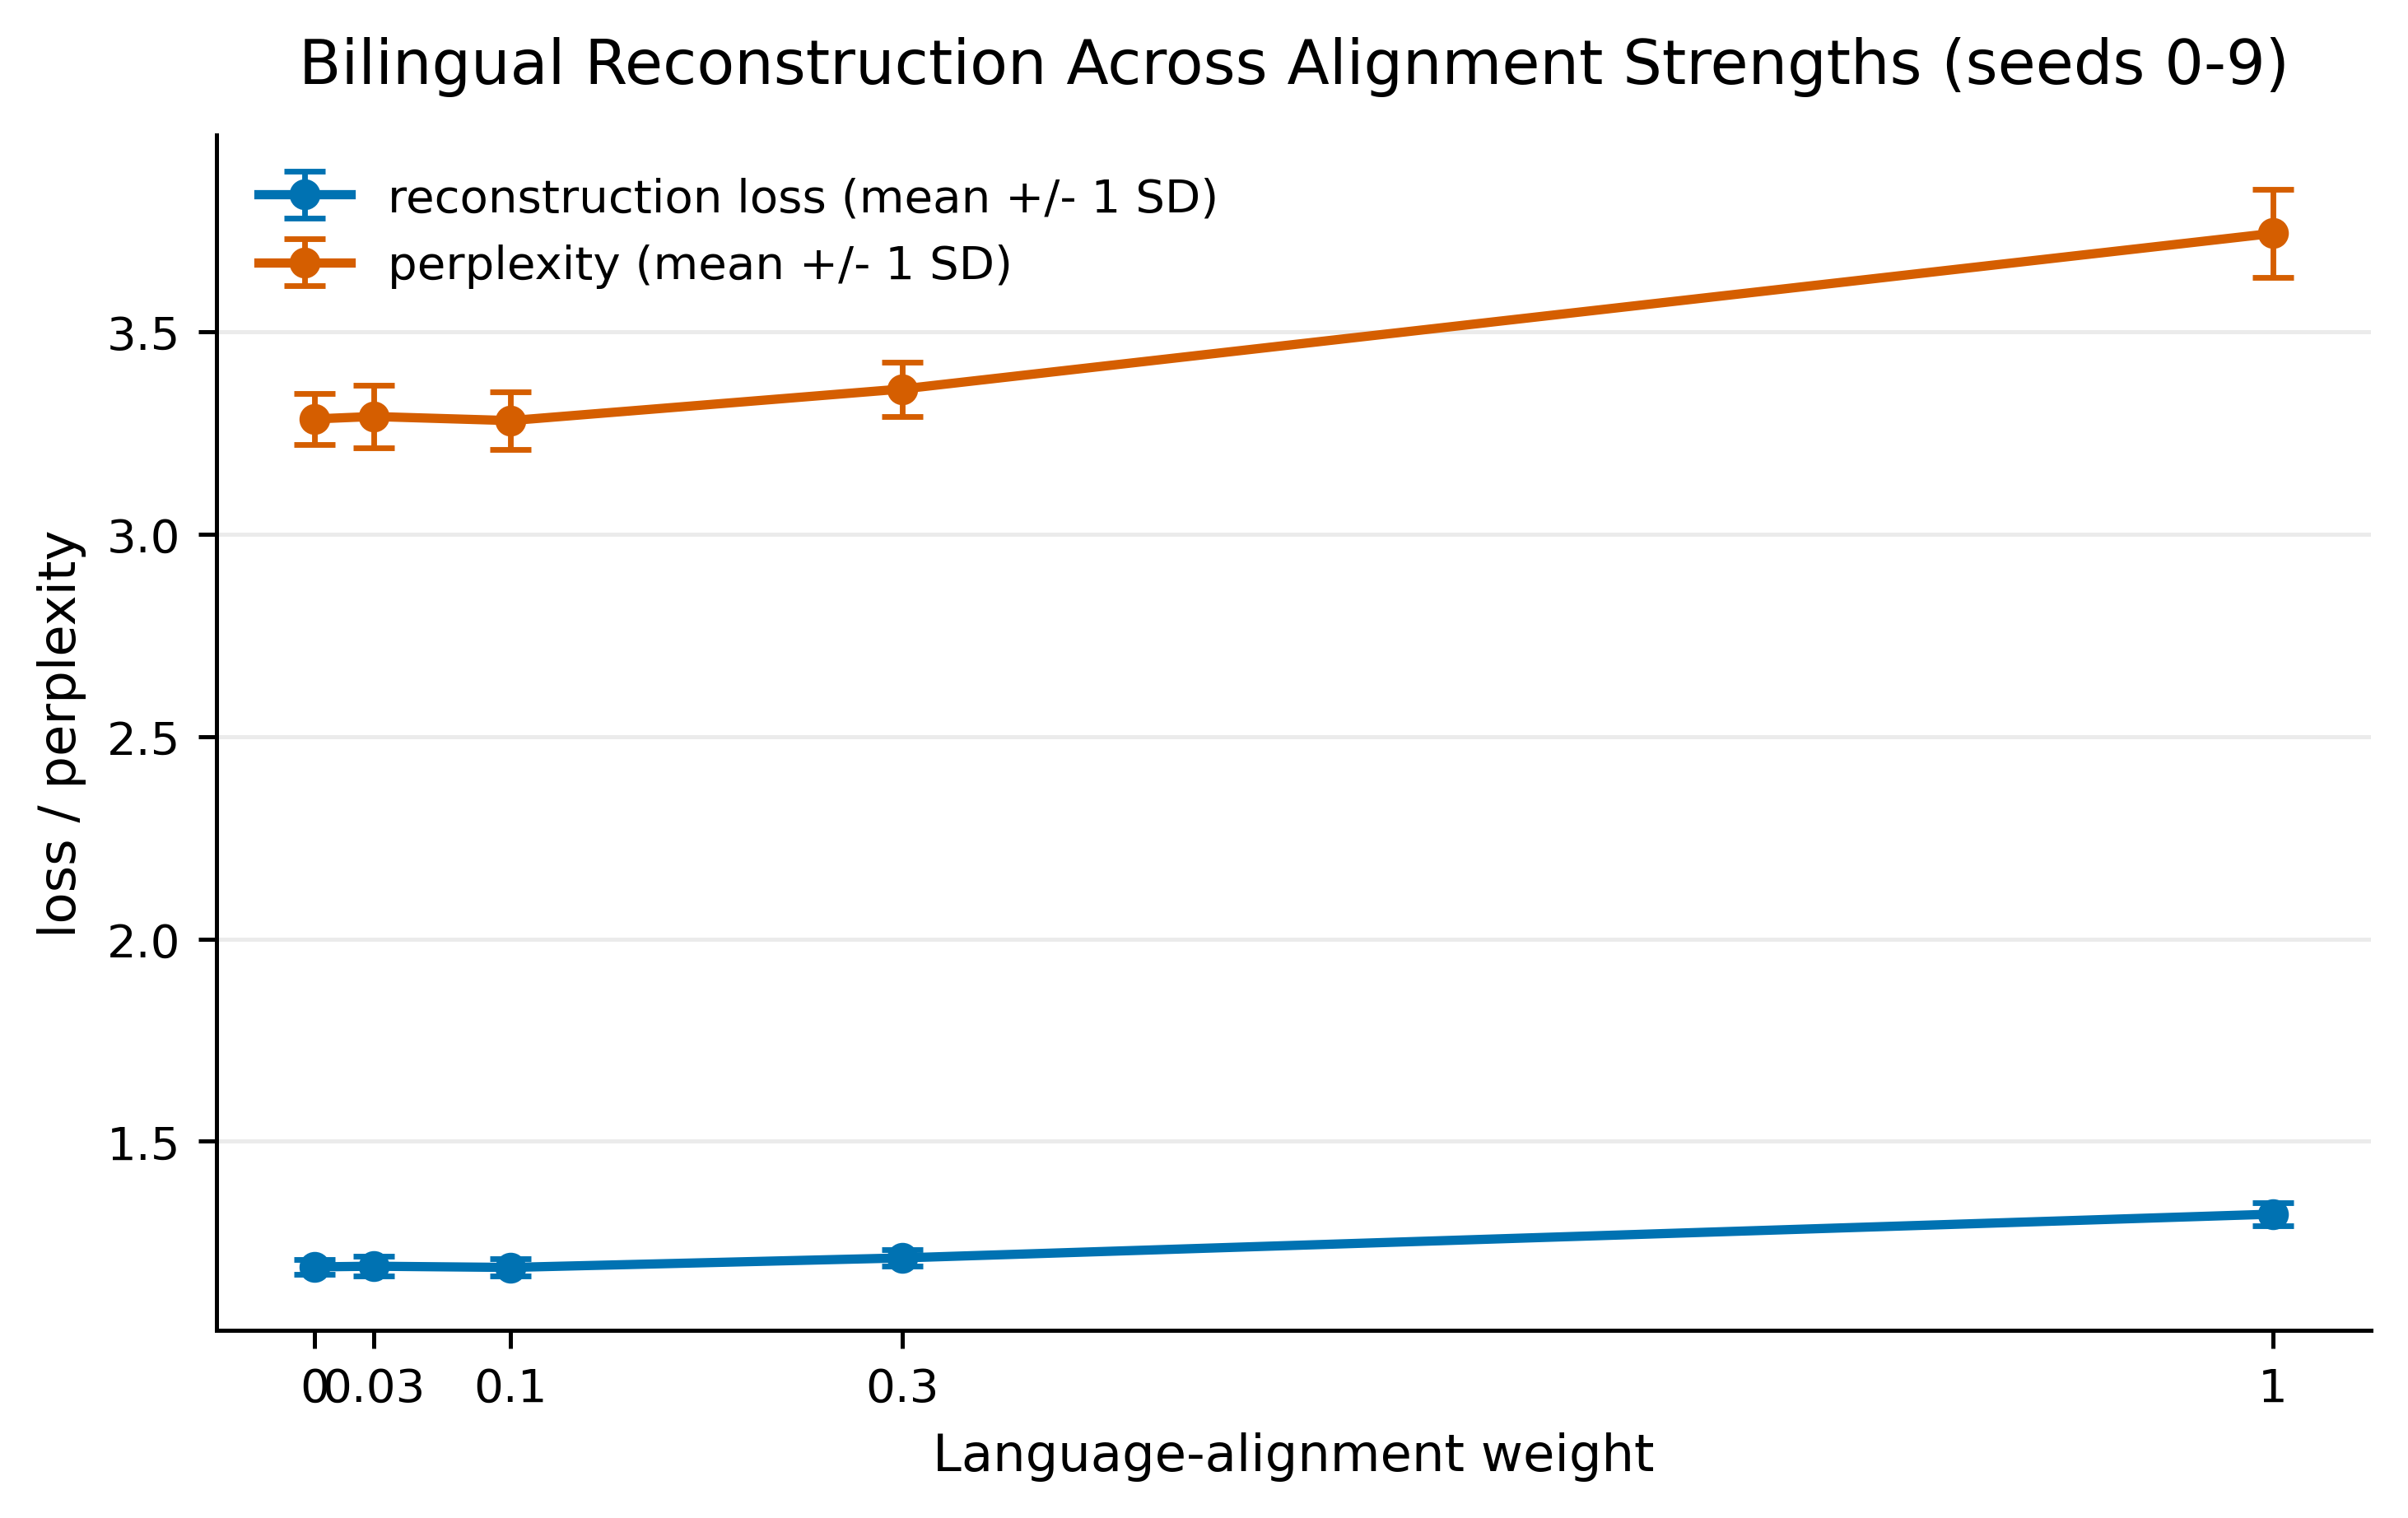
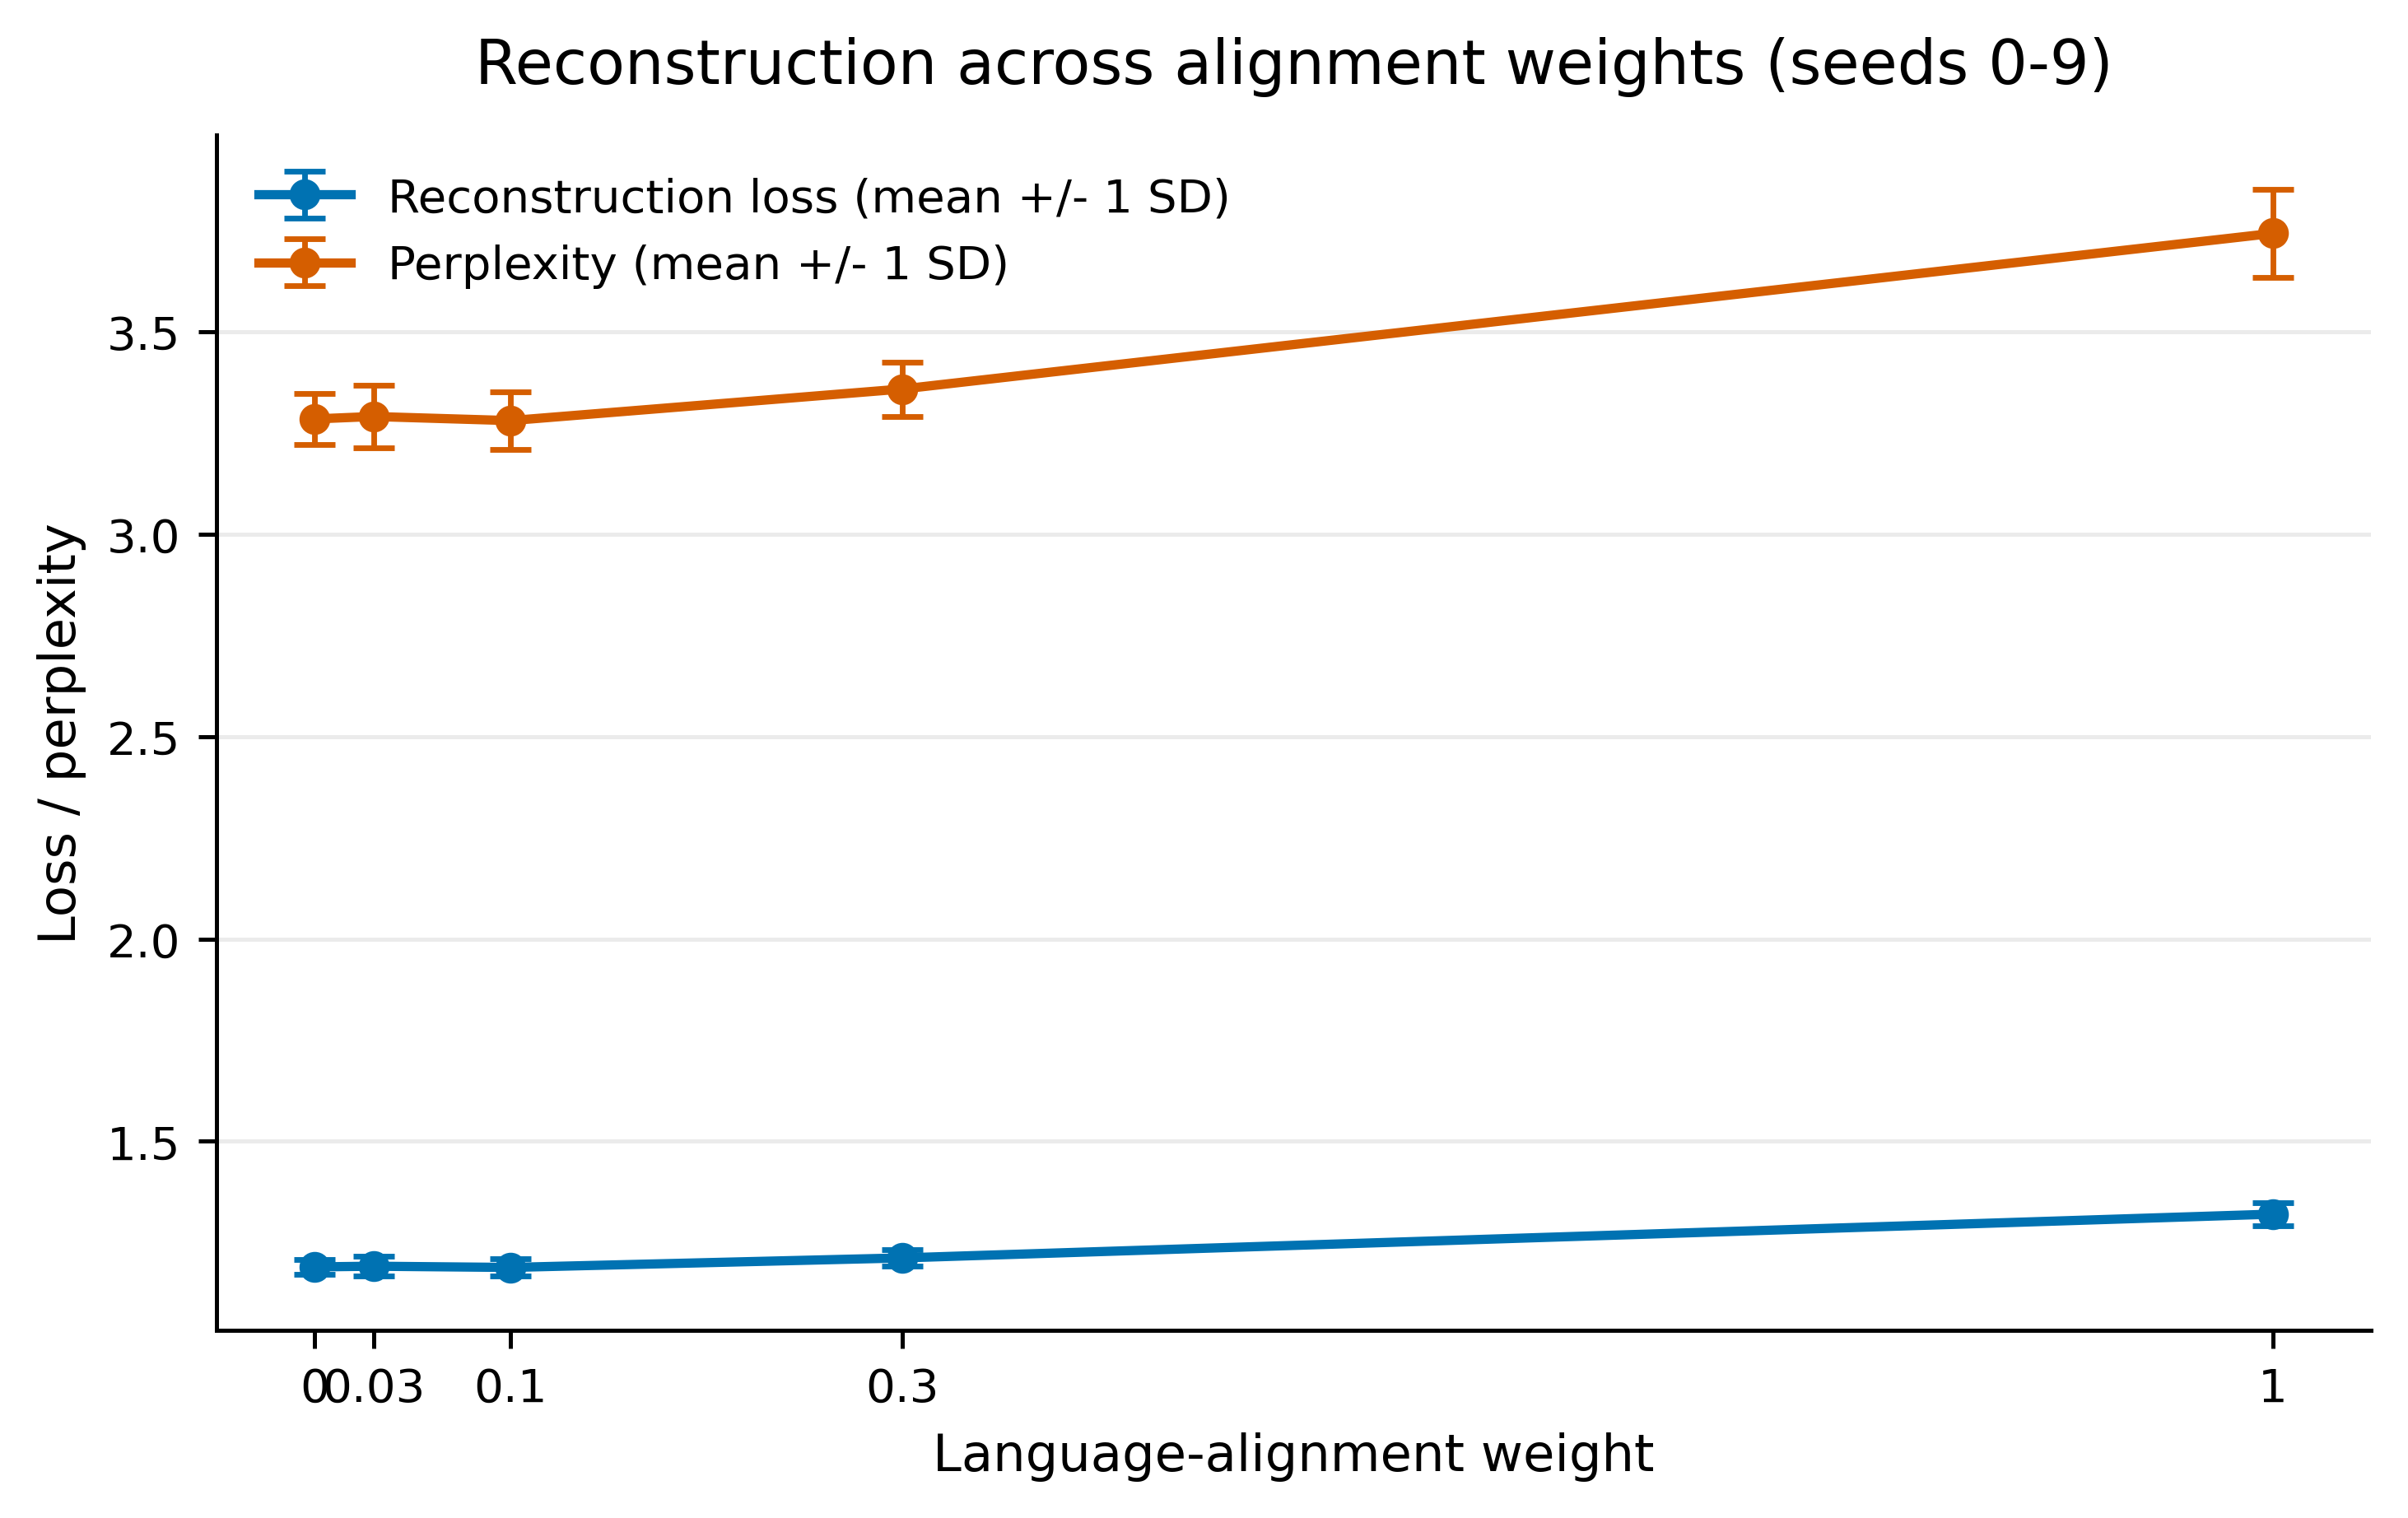
Report bilingual metric standard deviations

Changed region(s): [[0.1244, 0.0309, 0.9644, 0.0618], [0.1556, 0.1236, 0.5289, 0.1855], [0.0, 0.34, 0.0311, 0.6182]]

diff --git a/paper/main.tex b/paper/main.tex
@@ -38,7 +38,7 @@ The dataset contains 526 numbered propositions. In the monolingual study, each r
 
 The monolingual result motivates the architecture. A single 32-dimensional VAE latent reconstructs text but produces weak hierarchy geometry: nearest-neighbor family agreement is 3.0 percent. Splitting the latent into text and structure subspaces produces a compact structure representation in which local geometry tracks the \emph{Tractatus} hierarchy. The retained monolingual seed sweep uses the balanced \texttt{reg005} configuration across seeds 0--9.
 
-The bilingual result extends this finding. Across ten seeds and five alignment strengths, cross-language proposition retrieval is already strong with no explicit alignment loss: top-1 retrieval is $0.9348 \pm 0.0115$ and mean reciprocal rank is $0.9650 \pm 0.0066$. Light alignment at $\lambda_{\mathrm{language\ alignment}} = 0.03$ gives the strongest mean retrieval and hierarchy scores: top-1 retrieval is $0.9365 \pm 0.0103$, MRR is $0.9662 \pm 0.0058$, parent accuracy is 0.8608, depth accuracy is 0.9643, and next-proposition accuracy is 0.6189. High alignment at 1.00 degrades retrieval and hierarchy. The result does not show that the model understands Wittgenstein or learns general language-invariant logic. It shows a narrower result: under aligned German and English proposition texts, and under shared hierarchy supervision, the learned structure latent tracks formal proposition position across languages.
+The bilingual result extends this finding. Across ten seeds and five alignment strengths, cross-language proposition retrieval is already strong with no explicit alignment loss: top-1 retrieval is $0.9348 \pm 0.0115$ and mean reciprocal rank is $0.9650 \pm 0.0066$. Light alignment at $\lambda_{\mathrm{language\ alignment}} = 0.03$ gives the strongest mean retrieval and hierarchy scores: top-1 retrieval is $0.9365 \pm 0.0103$, MRR is $0.9662 \pm 0.0058$, parent accuracy is $0.8608 \pm 0.0094$, depth accuracy is $0.9643 \pm 0.0136$, and next-proposition accuracy is $0.6189 \pm 0.0219$. High alignment at 1.00 degrades retrieval and hierarchy. The result does not show that the model understands Wittgenstein or learns general language-invariant logic. It shows a narrower result: under aligned German and English proposition texts, and under shared hierarchy supervision, the learned structure latent tracks formal proposition position across languages.
 \end{abstract}
 
 \section{Introduction}
@@ -263,57 +263,102 @@ The main bilingual retrieval metrics are cross-language top-1 id accuracy, cross
 
 The bilingual alignment sweep was run across ten seeds for each alignment strength. Metric sweep figures therefore report means with error bars. The error bars are necessary because the paper is now making claims across seeds rather than from a single trained model.
 
-The core seed-sweep results are shown in Table~\ref{tab:bilingual-core}. Directional retrieval is balanced across languages (Table~\ref{tab:directional-retrieval}). By-language parent prediction is also balanced (Table~\ref{tab:by-language-parent}). These checks matter because they rule out a trivial one-sided interpretation. The bilingual alignment is not only German mapping into English, nor only English mapping into German. Both retrieval directions and both language-specific structure predictions show the same broad pattern.
+The core seed-sweep results are shown in Table~\ref{tab:bilingual-core}. Directional retrieval is balanced across languages (Table~\ref{tab:directional-retrieval}). By-language structure prediction is also balanced (Table~\ref{tab:by-language-parent}). These checks matter because they rule out a trivial one-sided interpretation. The bilingual alignment is not only German mapping into English, nor only English mapping into German. Both retrieval directions and both language-specific structure predictions show the same broad pattern.
 
 \begin{table}[htbp]
 \centering
-\caption{Core bilingual seed-sweep results across ten seeds for each alignment strength. Reported retrieval SDs are across seeds.}
+\caption{Core bilingual seed-sweep results across ten seeds for each alignment strength. Values are mean $\pm$ SD across seeds.}
 \label{tab:bilingual-core}
-\begin{tabular}{rrrrrrrrr}
+\resizebox{\textwidth}{!}{%
+\begin{tabular}{rrrrrrr}
 \toprule
-$\lambda$ & Seeds & Parent & Depth & Next & Top-1 & Top-1 SD & MRR & MRR SD \\
+$\lambda$ & Seeds & Parent & Depth & Next & Top-1 & MRR \\
 \midrule
-0.00 & 10 & 0.8601 & 0.9646 & 0.6202 & 0.9348 & 0.0115 & 0.9650 & 0.0066 \\
-0.03 & 10 & 0.8608 & 0.9643 & 0.6189 & 0.9365 & 0.0103 & 0.9662 & 0.0058 \\
-0.10 & 10 & 0.8539 & 0.9574 & 0.6142 & 0.9227 & 0.0087 & 0.9546 & 0.0043 \\
-0.30 & 10 & 0.8029 & 0.9320 & 0.5596 & 0.8720 & 0.0112 & 0.9143 & 0.0080 \\
-1.00 & 10 & 0.5736 & 0.7984 & 0.3614 & 0.7943 & 0.0188 & 0.8577 & 0.0130 \\
+0.00 & 10 & $0.8601 \pm 0.0094$ & $0.9646 \pm 0.0133$ & $0.6202 \pm 0.0194$ & $0.9348 \pm 0.0115$ & $0.9650 \pm 0.0066$ \\
+0.03 & 10 & $0.8608 \pm 0.0094$ & $0.9643 \pm 0.0136$ & $0.6189 \pm 0.0219$ & $0.9365 \pm 0.0103$ & $0.9662 \pm 0.0058$ \\
+0.10 & 10 & $0.8539 \pm 0.0102$ & $0.9574 \pm 0.0166$ & $0.6142 \pm 0.0237$ & $0.9227 \pm 0.0087$ & $0.9546 \pm 0.0043$ \\
+0.30 & 10 & $0.8029 \pm 0.0110$ & $0.9320 \pm 0.0249$ & $0.5596 \pm 0.0190$ & $0.8720 \pm 0.0112$ & $0.9143 \pm 0.0080$ \\
+1.00 & 10 & $0.5736 \pm 0.0340$ & $0.7984 \pm 0.0415$ & $0.3614 \pm 0.0213$ & $0.7943 \pm 0.0188$ & $0.8577 \pm 0.0130$ \\
 \bottomrule
 \end{tabular}
+}
 \end{table}
 
 \begin{table}[htbp]
 \centering
-\caption{Directional cross-language retrieval.}
+\caption{Directional cross-language retrieval. Values are mean $\pm$ SD across seeds.}
 \label{tab:directional-retrieval}
+\resizebox{\textwidth}{!}{%
 \begin{tabular}{rrrrr}
 \toprule
 $\lambda$ & de$\rightarrow$en Top-1 & en$\rightarrow$de Top-1 & de$\rightarrow$en MRR & en$\rightarrow$de MRR \\
 \midrule
-0.00 & 0.9327 & 0.9369 & 0.9638 & 0.9662 \\
-0.03 & 0.9354 & 0.9376 & 0.9654 & 0.9671 \\
-0.10 & 0.9245 & 0.9209 & 0.9554 & 0.9538 \\
-0.30 & 0.8707 & 0.8732 & 0.9123 & 0.9162 \\
-1.00 & 0.7960 & 0.7926 & 0.8589 & 0.8564 \\
+0.00 & $0.9327 \pm 0.0146$ & $0.9369 \pm 0.0109$ & $0.9638 \pm 0.0085$ & $0.9662 \pm 0.0060$ \\
+0.03 & $0.9354 \pm 0.0133$ & $0.9376 \pm 0.0100$ & $0.9659 \pm 0.0072$ & $0.9666 \pm 0.0054$ \\
+0.10 & $0.9245 \pm 0.0096$ & $0.9209 \pm 0.0089$ & $0.9556 \pm 0.0047$ & $0.9536 \pm 0.0047$ \\
+0.30 & $0.8707 \pm 0.0113$ & $0.8732 \pm 0.0133$ & $0.9134 \pm 0.0078$ & $0.9151 \pm 0.0095$ \\
+1.00 & $0.7960 \pm 0.0170$ & $0.7926 \pm 0.0229$ & $0.8587 \pm 0.0119$ & $0.8566 \pm 0.0149$ \\
 \bottomrule
 \end{tabular}
+}
 \end{table}
 
 \begin{table}[htbp]
 \centering
-\caption{By-language parent prediction accuracy.}
+\caption{By-language structure prediction accuracy. Values are mean $\pm$ SD across seeds.}
 \label{tab:by-language-parent}
-\begin{tabular}{rrr}
+\small
+\resizebox{\textwidth}{!}{%
+\begin{tabular}{rrrrrrr}
 \toprule
-$\lambda$ & Parent accuracy, de & Parent accuracy, en \\
+$\lambda$ & Parent, de & Parent, en & Depth, de & Depth, en & Next, de & Next, en \\
 \midrule
-0.00 & 0.8595 & 0.8606 \\
-0.03 & 0.8610 & 0.8606 \\
-0.10 & 0.8519 & 0.8559 \\
-0.30 & 0.8025 & 0.8034 \\
-1.00 & 0.5738 & 0.5734 \\
+0.00 & $0.8595 \pm 0.0108$ & $0.8606 \pm 0.0091$ & $0.9652 \pm 0.0145$ & $0.9641 \pm 0.0131$ & $0.6198 \pm 0.0214$ & $0.6205 \pm 0.0210$ \\
+0.03 & $0.8610 \pm 0.0098$ & $0.8606 \pm 0.0101$ & $0.9648 \pm 0.0149$ & $0.9637 \pm 0.0128$ & $0.6165 \pm 0.0227$ & $0.6213 \pm 0.0246$ \\
+0.10 & $0.8519 \pm 0.0102$ & $0.8559 \pm 0.0122$ & $0.9578 \pm 0.0155$ & $0.9570 \pm 0.0182$ & $0.6158 \pm 0.0269$ & $0.6125 \pm 0.0224$ \\
+0.30 & $0.8025 \pm 0.0120$ & $0.8034 \pm 0.0124$ & $0.9310 \pm 0.0274$ & $0.9331 \pm 0.0233$ & $0.5606 \pm 0.0195$ & $0.5586 \pm 0.0201$ \\
+1.00 & $0.5738 \pm 0.0339$ & $0.5734 \pm 0.0355$ & $0.8002 \pm 0.0447$ & $0.7966 \pm 0.0399$ & $0.3631 \pm 0.0275$ & $0.3597 \pm 0.0164$ \\
 \bottomrule
 \end{tabular}
+}
+\end{table}
+
+\begin{table}[htbp]
+\centering
+\caption{Bilingual reconstruction and latent regularization diagnostics. Values are mean $\pm$ SD across seeds.}
+\label{tab:bilingual-reconstruction-summary}
+\resizebox{\textwidth}{!}{%
+\begin{tabular}{rrrrrr}
+\toprule
+$\lambda$ & Reconstruction & Perplexity & KL text & KL structure & Same-id distance \\
+\midrule
+0.00 & $1.1893 \pm 0.0193$ & $3.2854 \pm 0.0632$ & $0.8843 \pm 0.1962$ & $10.0893 \pm 0.1250$ & $0.7598 \pm 0.0195$ \\
+0.03 & $1.1911 \pm 0.0237$ & $3.2914 \pm 0.0778$ & $0.9033 \pm 0.1973$ & $10.0786 \pm 0.1272$ & $0.7486 \pm 0.0173$ \\
+0.10 & $1.1880 \pm 0.0215$ & $3.2813 \pm 0.0710$ & $0.8596 \pm 0.2033$ & $9.9755 \pm 0.1535$ & $0.7756 \pm 0.0140$ \\
+0.30 & $1.2116 \pm 0.0201$ & $3.3594 \pm 0.0673$ & $0.7267 \pm 0.1988$ & $9.5007 \pm 0.1895$ & $0.9502 \pm 0.0398$ \\
+1.00 & $1.3198 \pm 0.0290$ & $3.7442 \pm 0.1097$ & $0.4379 \pm 0.2191$ & $7.3225 \pm 0.4283$ & $1.1970 \pm 0.0398$ \\
+\bottomrule
+\end{tabular}
+}
+\end{table}
+
+\begin{table}[htbp]
+\centering
+\caption{Bilingual structure-latent distance diagnostics. Values are mean $\pm$ SD across seeds.}
+\label{tab:bilingual-distance-summary}
+\resizebox{\textwidth}{!}{%
+\begin{tabular}{rrrrr}
+\toprule
+$\lambda$ & Sibling & Parent-child & Cross-language parent-child & Unrelated \\
+\midrule
+0.00 & $1.8021 \pm 0.0260$ & $6.2126 \pm 0.1088$ & $6.2149 \pm 0.1089$ & $5.8365 \pm 0.0649$ \\
+0.03 & $1.8045 \pm 0.0259$ & $6.2038 \pm 0.1104$ & $6.2060 \pm 0.1106$ & $5.8314 \pm 0.0663$ \\
+0.10 & $1.8491 \pm 0.0207$ & $6.1420 \pm 0.1215$ & $6.1446 \pm 0.1219$ & $5.7964 \pm 0.0741$ \\
+0.30 & $2.0560 \pm 0.0324$ & $5.8920 \pm 0.1310$ & $5.8971 \pm 0.1312$ & $5.6303 \pm 0.0797$ \\
+1.00 & $2.4089 \pm 0.0419$ & $4.9136 \pm 0.2078$ & $4.9203 \pm 0.2057$ & $4.8078 \pm 0.1599$ \\
+\bottomrule
+\end{tabular}
+}
 \end{table}
 
 \begin{figure}[htbp]
@@ -346,11 +391,11 @@ $\lambda$ & Parent accuracy, de & Parent accuracy, en \\
 
 Several points matter. First, explicit alignment is not required for strong cross-language retrieval. At \path{lambda_language_alignment} = 0.00, top-1 proposition retrieval is $0.9348 \pm 0.0115$ and MRR is $0.9650 \pm 0.0066$. Shared hierarchy supervision alone is therefore sufficient to induce substantial bilingual alignment in $z_{\mathrm{structure}}$.
 
-Second, light alignment is the best-supported setting in the ten-seed sweep. At \path{lambda_language_alignment} = 0.03, top-1 retrieval is $0.9365 \pm 0.0103$ and MRR is $0.9662 \pm 0.0058$. Parent, depth, and next-proposition accuracies are also among the strongest values in the sweep.
+Second, light alignment is the best-supported setting in the ten-seed sweep. At \path{lambda_language_alignment} = 0.03, top-1 retrieval is $0.9365 \pm 0.0103$ and MRR is $0.9662 \pm 0.0058$. Parent, depth, and next-proposition accuracies are also among the strongest values in the sweep: $0.8608 \pm 0.0094$, $0.9643 \pm 0.0136$, and $0.6189 \pm 0.0219$, respectively.
 
 Third, the previous single-run emphasis on \path{lambda_language_alignment} = 0.10 should be treated as superseded by the seed sweep. On average, 0.03 is better supported than 0.10, so the representative PCA plots use \texttt{align003} seed 0.
 
-Fourth, high alignment damages the model. At \path{lambda_language_alignment} = 1.00, mean top-1 retrieval falls to $0.7943 \pm 0.0188$, MRR falls to $0.8577 \pm 0.0130$, parent accuracy falls to 0.5736, depth accuracy falls to 0.7984, and next-proposition accuracy falls to 0.3614.
+Fourth, high alignment damages the model. At \path{lambda_language_alignment} = 1.00, mean top-1 retrieval falls to $0.7943 \pm 0.0188$, MRR falls to $0.8577 \pm 0.0130$, parent accuracy falls to $0.5736 \pm 0.0340$, depth accuracy falls to $0.7984 \pm 0.0415$, and next-proposition accuracy falls to $0.3614 \pm 0.0213$.
 
 The result is therefore not that more alignment is always better. The better interpretation is that $z_{\mathrm{structure}}$ needs enough shared pressure to place same-id German and English propositions in compatible regions, but not so much pressure that it collapses distinctions needed for hierarchy prediction.
 